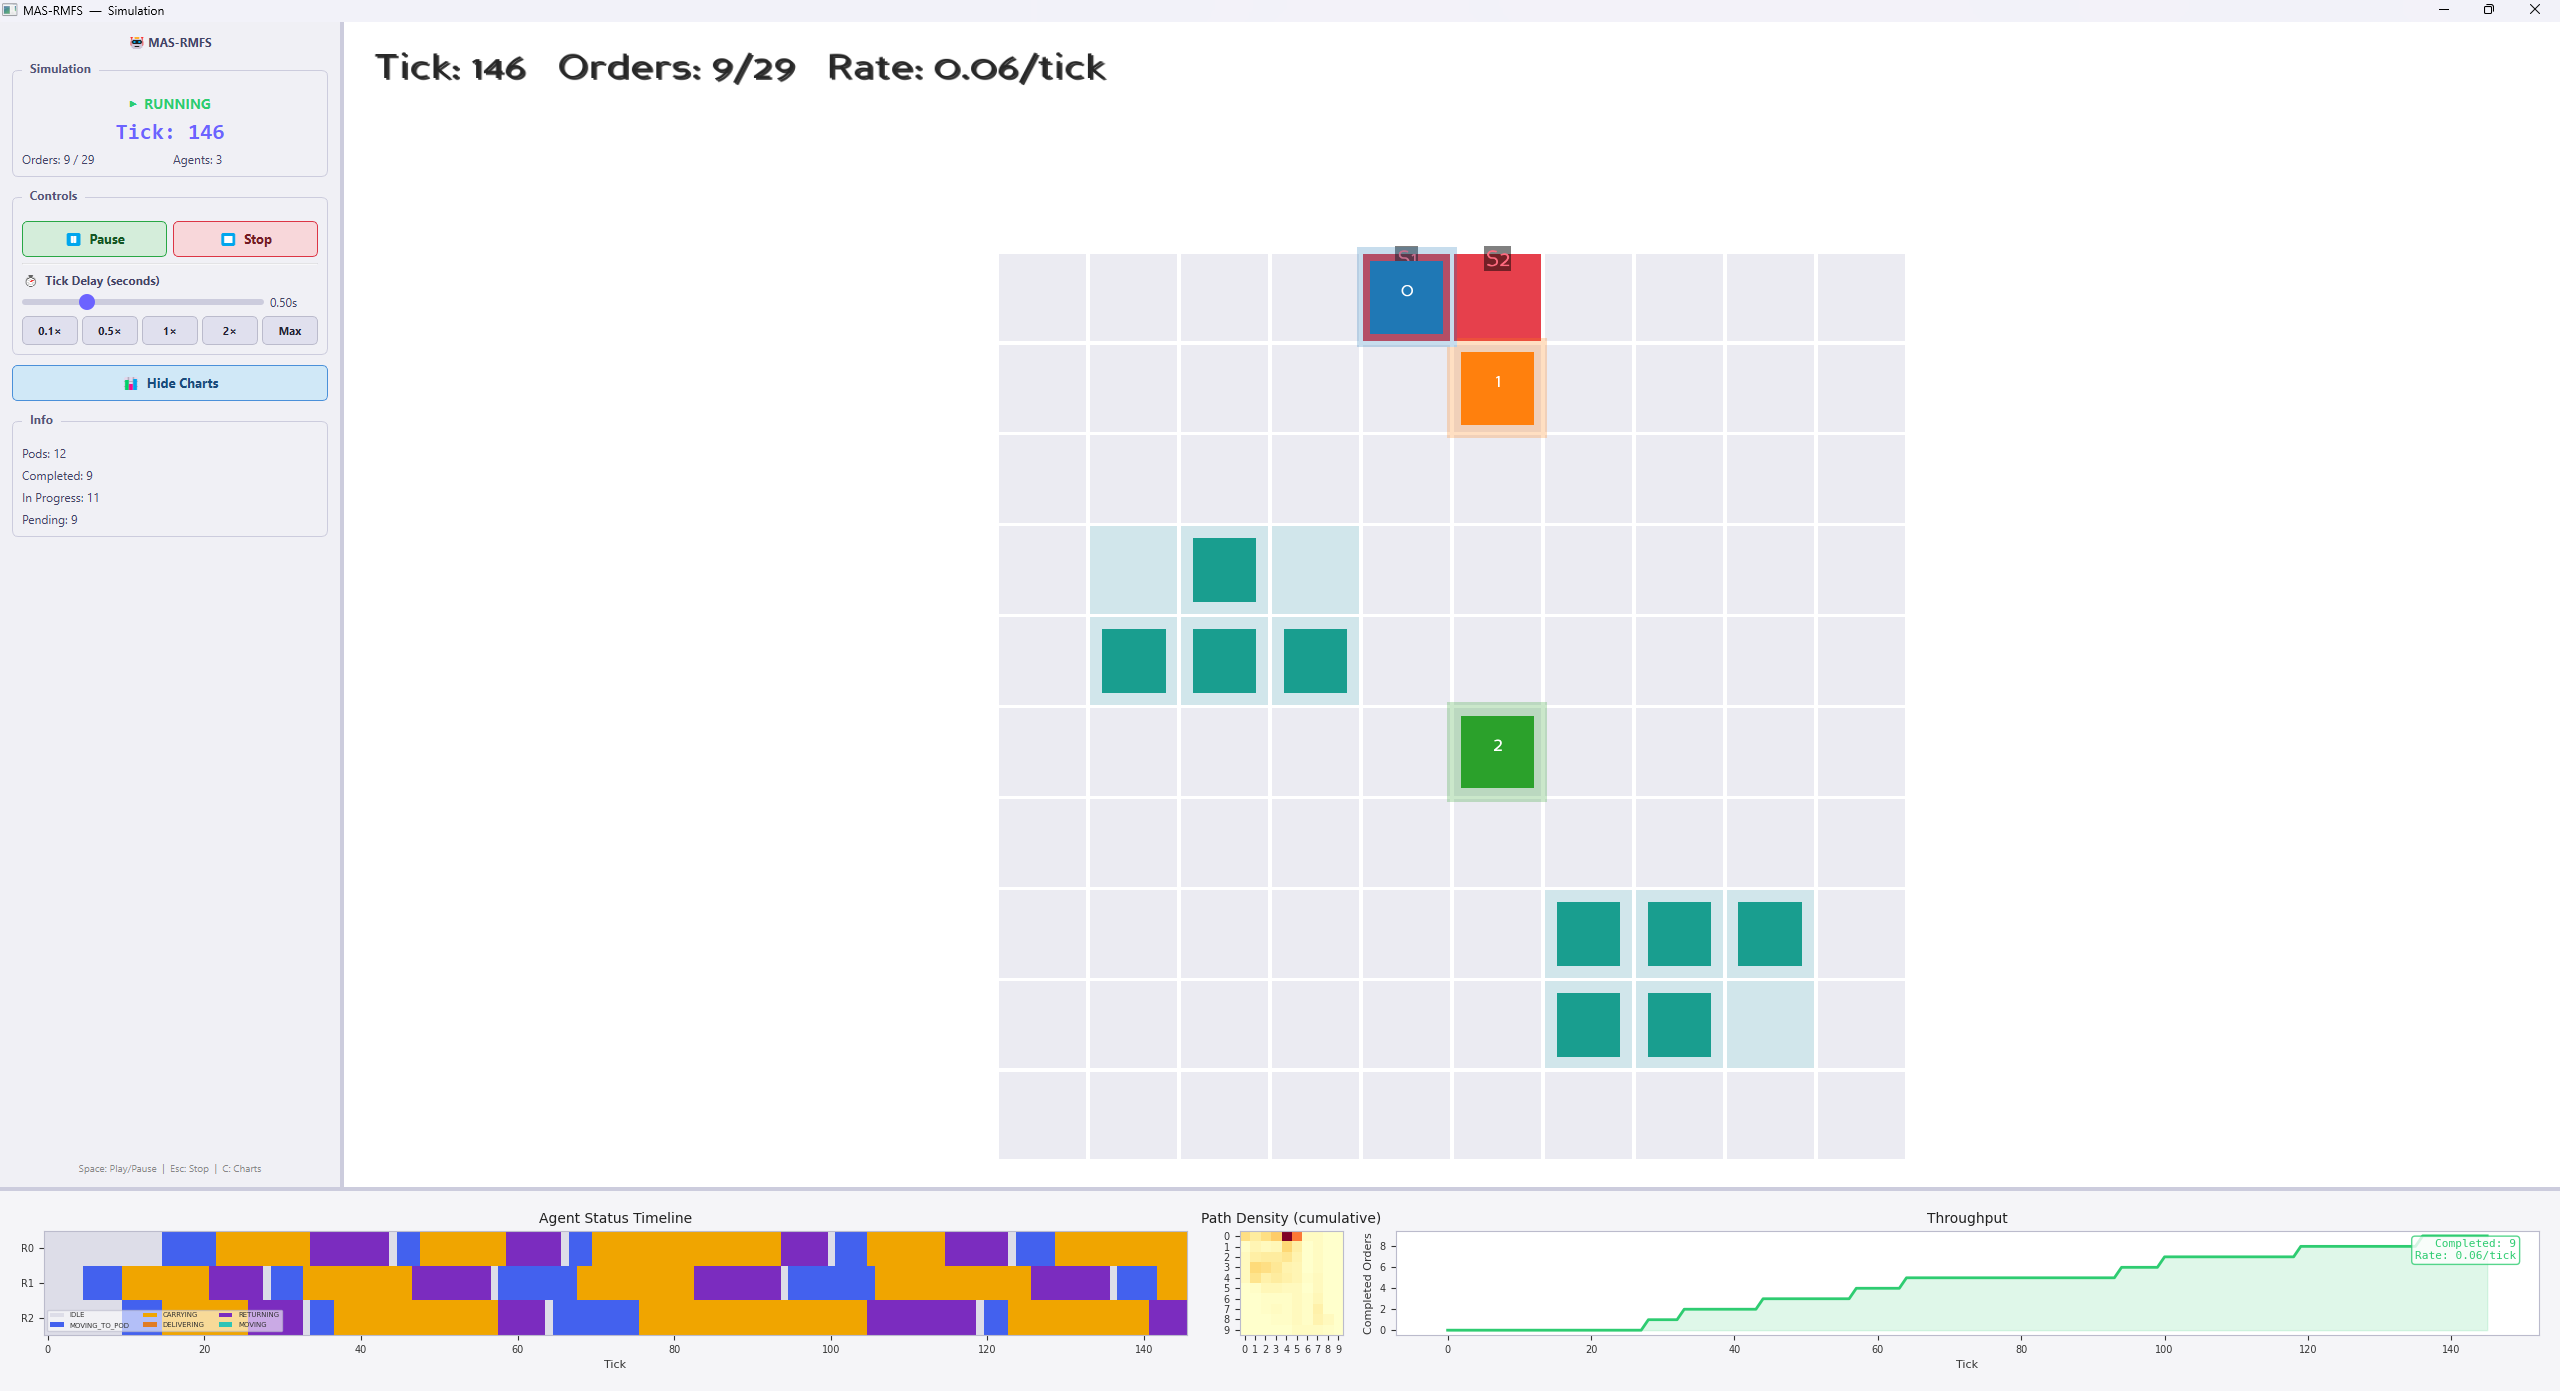
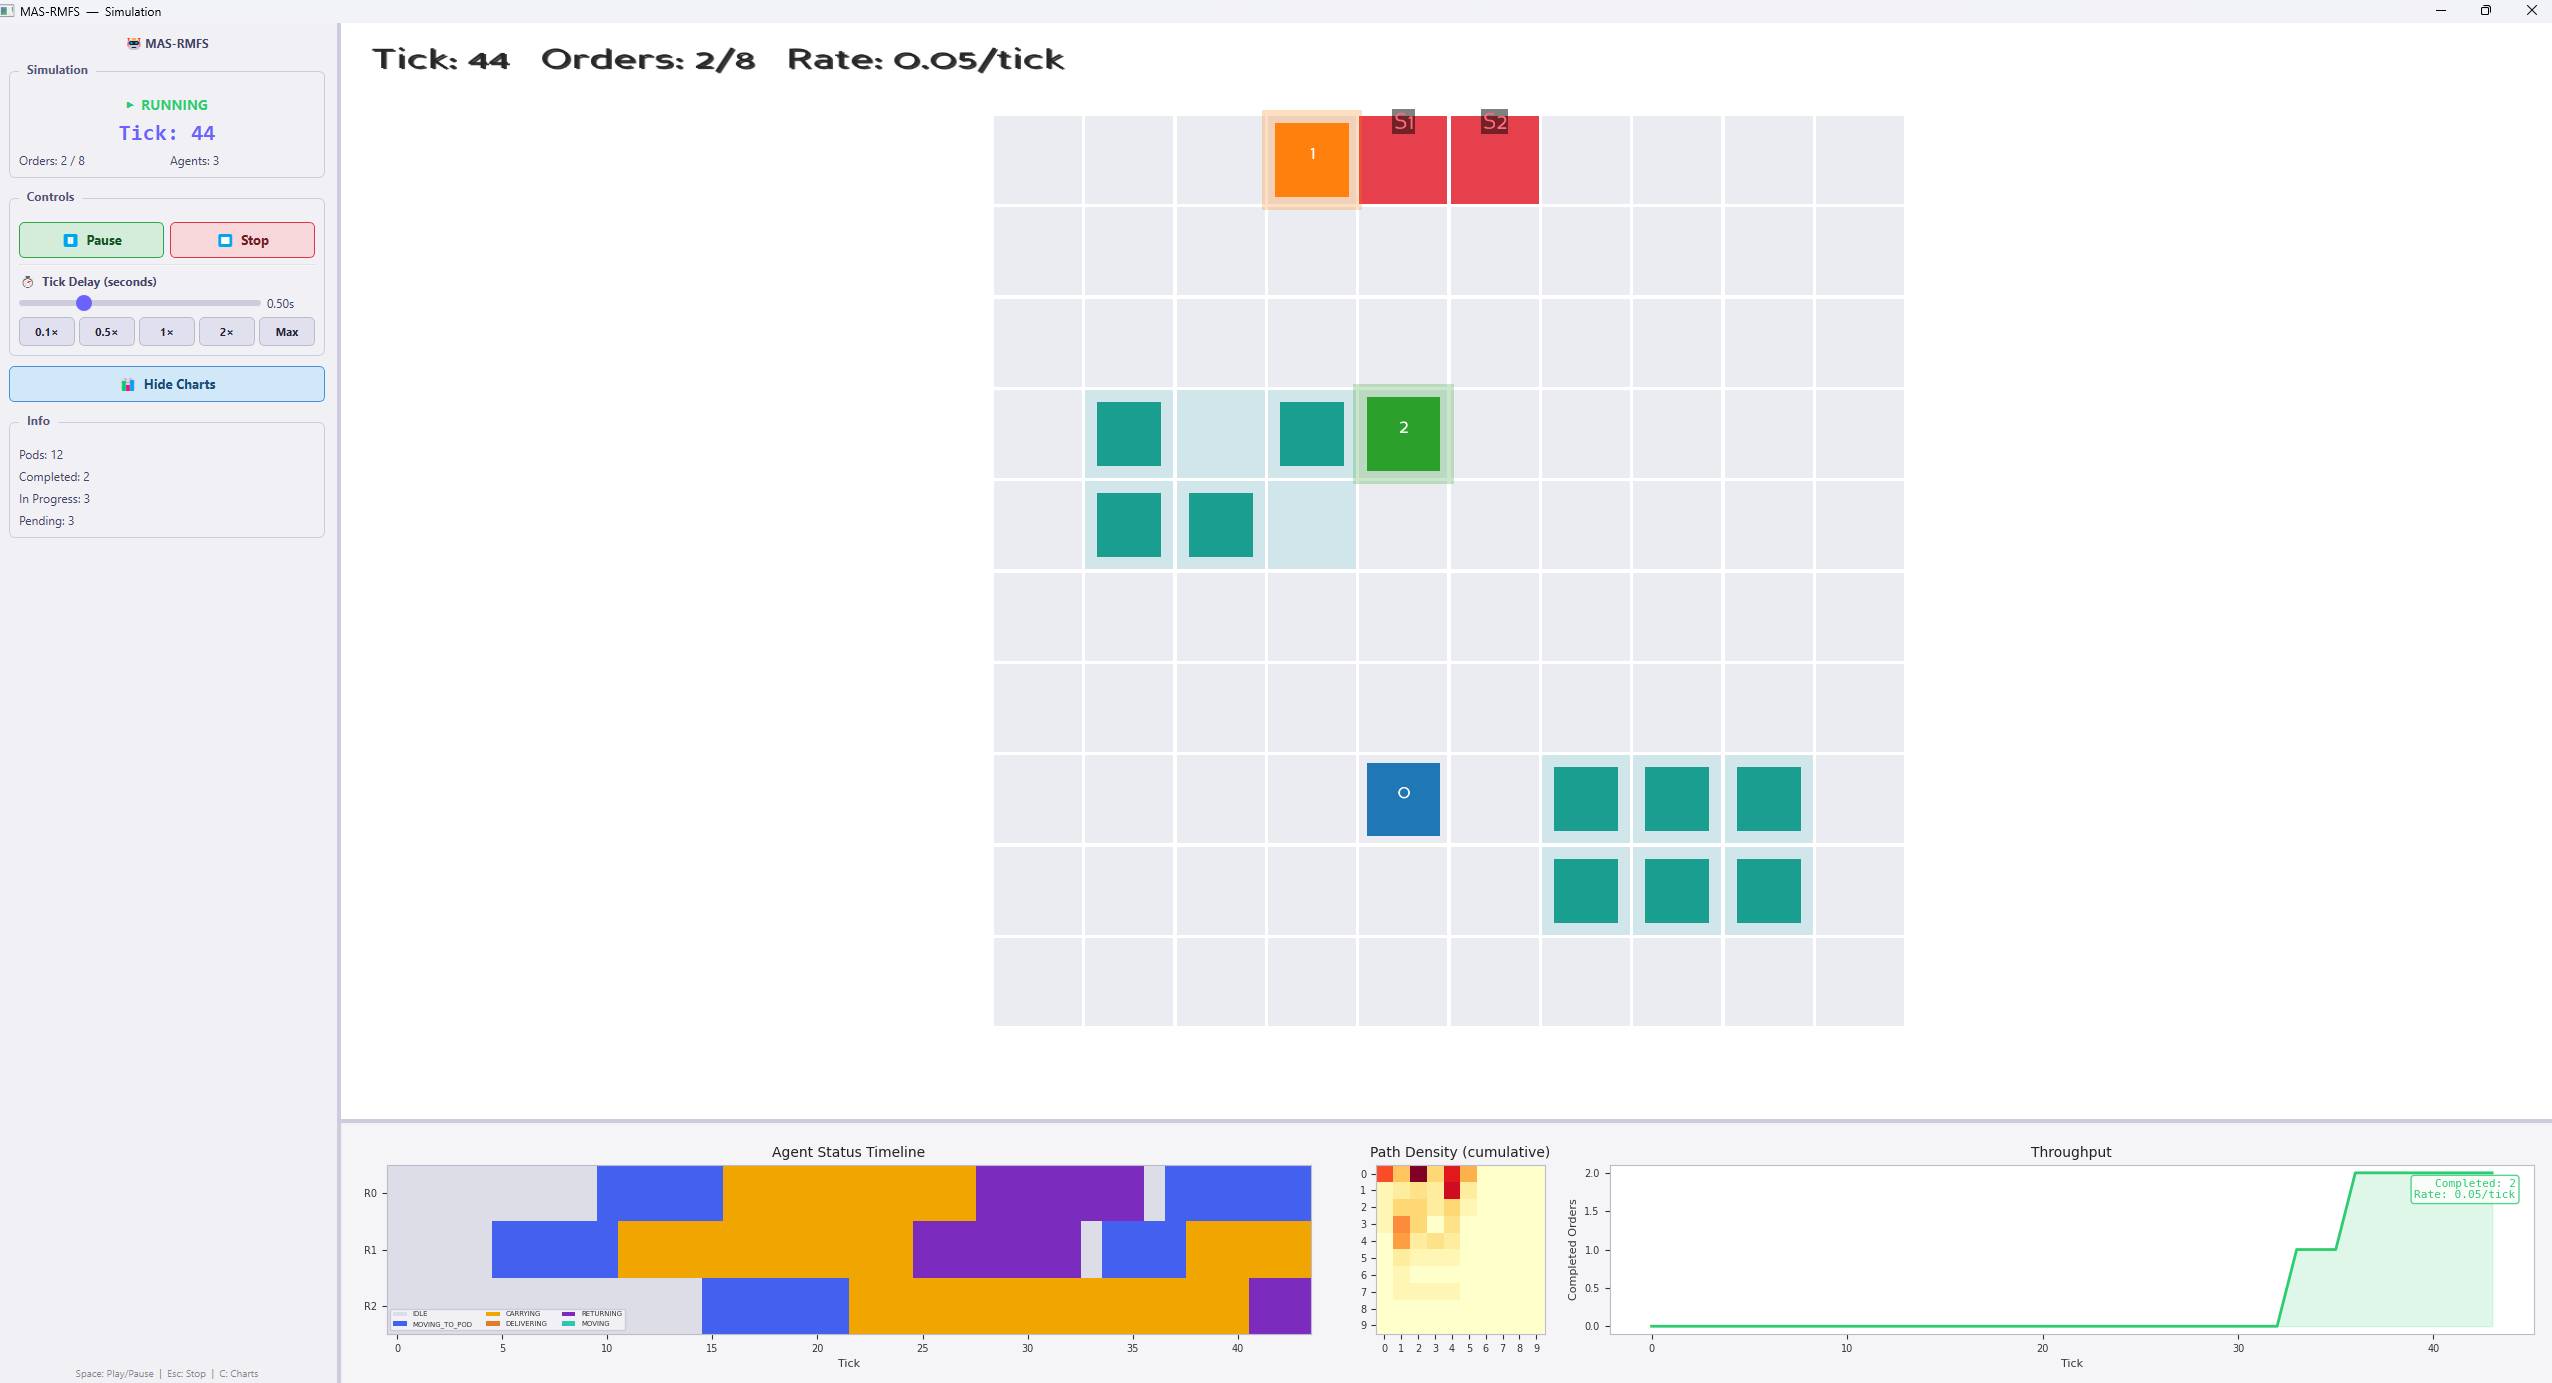
Update

diff --git a/Visualization/ui.py b/Visualization/ui.py
@@ -305,18 +305,9 @@ class SimulationUI(QMainWindow):
         self.setWindowTitle("MAS-RMFS  \u2014  Simulation")
         self.resize(1400, 900)
 
-        # 外层垂直分割器：上 = 主区域，下 = 图表
-        self._outer_splitter = QSplitter(Qt.Orientation.Vertical)
-        self.setCentralWidget(self._outer_splitter)
-
-        # ── 顶部区域（控件 + Panda3D） ──
-        top_widget = QWidget()
-        top_layout = QHBoxLayout(top_widget)
-        top_layout.setContentsMargins(0, 0, 0, 0)
-        top_layout.setSpacing(0)
-
+        # 水平分割器：左 = 控件，右 = Panda3D
         inner_splitter = QSplitter(Qt.Orientation.Horizontal)
-        top_layout.addWidget(inner_splitter)
+        self.setCentralWidget(inner_splitter)
 
         # 左侧面板（控件）
         left_widget = QWidget()
@@ -430,28 +421,33 @@ class SimulationUI(QMainWindow):
 
         inner_splitter.addWidget(left_widget)
 
-        # 右侧面板（Panda3D 容器）
+        # 右侧面板：垂直分割器（Panda3D + 图表）
+        self._right_splitter = QSplitter(Qt.Orientation.Vertical)
+        self._right_splitter.setMinimumSize(600, 400)
+
+        # Panda3D 容器
         self._panda_container = QWidget()
-        self._panda_container.setMinimumSize(600, 400)
         self._panda_container.setSizePolicy(
             QSizePolicy.Policy.Expanding, QSizePolicy.Policy.Expanding
         )
-        inner_splitter.addWidget(self._panda_container)
+        self._right_splitter.addWidget(self._panda_container)
+
+        # 嵌入式图表面板（默认隐藏）
+        self._charts_panel = self._build_charts_panel()
+        self._charts_panel.setVisible(False)
+        self._right_splitter.addWidget(self._charts_panel)
+        self._right_splitter.setStretchFactor(0, 3)
+        self._right_splitter.setStretchFactor(1, 1)
+        # 图表显示/隐藏时重新调整 Panda3D 大小
+        self._right_splitter.splitterMoved.connect(lambda *_: self._resize_panda())
+
+        inner_splitter.addWidget(self._right_splitter)
         inner_splitter.setStretchFactor(0, 0)
         inner_splitter.setStretchFactor(1, 1)
         inner_splitter.setSizes([340, 1060])
 
-        self._outer_splitter.addWidget(top_widget)
-
-        # ── 底部区域：matplotlib 图表面板（默认隐藏） ──
-        self._charts_widget = self._build_charts_widget()
-        self._charts_widget.setVisible(False)
-        self._outer_splitter.addWidget(self._charts_widget)
-        self._outer_splitter.setStretchFactor(0, 3)
-        self._outer_splitter.setStretchFactor(1, 1)
-
-    def _build_charts_widget(self):
-        """创建包含 3 个子图的 matplotlib 图表面板。"""
+    def _build_charts_panel(self):
+        """创建嵌入式 matplotlib 图表面板。"""
         nm = self._night_mode
         bg = "#0f0f1a" if nm else "#f5f5f8"
         ax_bg = "#16162a" if nm else "#ffffff"
@@ -470,6 +466,10 @@ class SimulationUI(QMainWindow):
             "#2ec4b6",     # MOVING
         ])
 
+        panel = QWidget()
+        panel_layout = QVBoxLayout(panel)
+        panel_layout.setContentsMargins(2, 2, 2, 2)
+
         fig = plt.figure(figsize=(14, 3.5), facecolor=bg)
         self._chart_fig = fig
         axes = fig.subplots(1, 3)
@@ -480,9 +480,10 @@ class SimulationUI(QMainWindow):
             for sp in ax.spines.values():
                 sp.set_color(self._chart_spine_clr)
 
-        canvas = FigureCanvasQTAgg(fig)
-        canvas.setMinimumHeight(200)
-        return canvas
+        self._charts_canvas = FigureCanvasQTAgg(fig)
+        self._charts_canvas.setMinimumHeight(150)
+        panel_layout.addWidget(self._charts_canvas)
+        return panel
 
     # ── 图表绘制 ─────────────────────────────────────────────────
 
@@ -514,7 +515,7 @@ class SimulationUI(QMainWindow):
         self._draw_throughput(self._chart_axes[2], world_state)
 
         self._chart_fig.tight_layout(pad=1.5)
-        self._charts_widget.draw_idle()
+        self._charts_canvas.draw_idle()
 
     def _draw_timeline(self, ax, world_state):
         if not self._status_history:
@@ -697,7 +698,7 @@ class SimulationUI(QMainWindow):
 
     def _toggle_charts(self):
         self._chart_visible = not self._chart_visible
-        self._charts_widget.setVisible(self._chart_visible)
+        self._charts_panel.setVisible(self._chart_visible)
         if self._chart_visible:
             self._chart_btn.setText("\U0001f4ca  Hide Charts")
             # 立即用当前数据重绘
@@ -705,6 +706,8 @@ class SimulationUI(QMainWindow):
                 self._redraw_charts(self._engine.world)
         else:
             self._chart_btn.setText("\U0001f4ca  Show Charts")
+        # 图表显示/隐藏后重新调整 Panda3D 大小
+        QTimer.singleShot(50, self._resize_panda)
 
     # ── 键盘快捷键 ────────────────────────────────────────────
 
